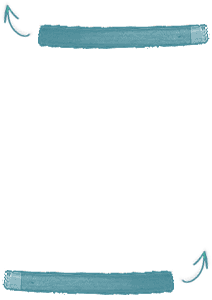
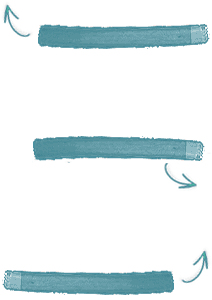
Made fancy-tip a shared class. Used the tip to put some focus on different configurator modes.

Changed region(s): [[0.1415, 0.45, 0.9623, 0.6], [0.8208, 0.57, 0.934, 0.63]]

diff --git a/src/ckeditor/samples/css/sample.css b/src/ckeditor/samples/css/sample.css
@@ -1,4 +1,4 @@
 /*!
  Copyright (c) 2003-2015, CKSource - Frederico Knabben. All rights reserved.
  For licensing, see LICENSE.html or http://cksource.com/ckeditor/license
[2 lines of base64/hex data omitted]

diff --git a/src/ckeditor/samples/toolbareditor/css/toolbarmodifier.css b/src/ckeditor/samples/toolbareditor/css/toolbarmodifier.css
@@ -1,4 +1,4 @@
 /*!
  Copyright (c) 2003-2015, CKSource - Frederico Knabben. All rights reserved.
  For licensing, see LICENSE.html or http://cksource.com/ckeditor/license
- */.cke_toolbar{pointer-events:none;-webkit-user-select:none;-moz-user-select:none;-ms-user-select:none;user-select:none;cursor:default}.some-toolbar-active .cke_toolbar{zoom:1;filter:alpha(opacity=50);-webkit-opacity:0.5;-moz-opacity:0.5;opacity:0.5}.cke_toolbar.active{position:relative;zoom:1;filter:alpha(opacity=100);-webkit-opacity:1;-moz-opacity:1;opacity:1}.cke_toolbar.active:after{content:'';display:block;position:absolute;top:0;right:6px;bottom:5px;left:0;-webkit-border-radius:5px;-webkit-background-clip:padding-box;-moz-border-radius:5px;-moz-background-clip:padding;border-radius:5px;background-clip:padding-box;-webkit-box-shadow:0px 0px 15px 3px #fff4b0;-moz-box-shadow:0px 0px 15px 3px #fff4b0;box-shadow:0px 0px 15px 3px #fff4b0}.cke_toolbar.active .cke_toolgroup{-webkit-box-shadow:none;-moz-box-shadow:none;box-shadow:none;border-color:#e3c300}.cke_toolbar.active .cke_combo,.cke_toolbar.active .cke_toolgroup{position:relative;z-index:2}.cke_toolbar.active .cke_combo_button{-webkit-box-shadow:none;-moz-box-shadow:none;box-shadow:none}.unselectable{-webkit-user-select:none;-moz-user-select:none;-ms-user-select:none;user-select:none}.toolbar{width:100%;padding:2.4em 0;overflow:hidden;border:1px solid transparent;text-align:center}.toolbar button.cke_button{cursor:pointer;display:inline-block;padding:4px 6px;outline:0;border:1px solid #a6a6a6}.toolbar button.hidden{display:none}.toolbar button.left{float:left}.toolbar button.right{float:right}.configContainer.hidden,.toolbarModifier.hidden{display:none}.toolbarModifier :focus,.toolbar button:focus,.configContainer>textarea:focus{outline:none}.toolbarModifier{padding:0;overflow:hidden;width:100%;position:relative;overflow-y:auto}.toolbarModifier ::-moz-focus-inner{border:0}.toolbarModifier .empty{display:none}.toolbarModifier.empty-visible .empty{display:table-row;zoom:1;filter:alpha(opacity=60);-webkit-opacity:0.6;-moz-opacity:0.6;opacity:0.6}.toolbarModifier>ul{padding:0;margin:0;border-top:1px solid #ccc;width:100%;display:table;border-collapse:collapse}.toolbarModifier>ul>li{display:table-row}.toolbarModifier>ul>li[data-type="group"],.toolbarModifier>ul>li[data-type="separator"]{border-bottom:1px solid #ccc}.toolbarModifier>ul>li[data-type="subgroup"]{border-top:1px solid #eee}.toolbarModifier>ul>li[data-type="subgroup"]:first-child{border-top:none}.toolbarModifier>ul>li[data-type="group"].active,.toolbarModifier>ul>li[data-type="group"]:hover,.toolbarModifier>ul>li[data-type="separator"].active,.toolbarModifier>ul>li[data-type="separator"]:hover{overflow:hidden;z-index:2}.toolbarModifier>ul>li[data-type="group"].active,.toolbarModifier>ul>li[data-type="separator"].active,.toolbarModifier>ul>li[data-type="group"].active:hover,.toolbarModifier>ul>li[data-type="separator"].active:hover{background:#f0fafb}.toolbarModifier>ul>li[data-type="group"]:hover,.toolbarModifier>ul>li[data-type="separator"]:hover{background:#fffbe3}.toolbarModifier>ul>li[data-type="separator"]:after{content:'';width:100%}.toolbarModifier>ul>li[data-type="separator"]>p{padding:3px 0}.toolbarModifier>ul>li>p,.toolbarModifier>ul>li>ul{display:table-cell;vertical-align:middle}.toolbarModifier>ul>li p{min-width:200px}.toolbarModifier>ul>li p span{white-space:nowrap}.toolbarModifier>ul>li p span button{margin-right:5px;cursor:pointer;background:#fff;-webkit-border-radius:5px;-webkit-background-clip:padding-box;-moz-border-radius:5px;-moz-background-clip:padding;border-radius:5px;background-clip:padding-box;border:1px solid #bbb}.toolbarModifier>ul>li p span button:not(.disabled):hover{color:#fff;background-color:#454545;border-color:transparent}.toolbarModifier>ul>li p span button.move.disabled{cursor:default;zoom:1;filter:alpha(opacity=20);-webkit-opacity:0.2;-moz-opacity:0.2;opacity:0.2}.toolbarModifier>ul>li ul{border-collapse:collapse;padding-left:0;width:100%}.toolbarModifier>ul>li ul li{display:table-row;list-style-type:none}.toolbarModifier>ul>li ul li[data-type="subgroup"]{border-top:1px solid #ddd}.toolbarModifier>ul>li ul li[data-type="subgroup"]:first-child{border-top:0}.toolbarModifier>ul>li ul li>p,.toolbarModifier>ul>li ul li>ul{display:table-cell;vertical-align:middle}.toolbarModifier>ul>li ul li p{padding:3px 0}.toolbarModifier>ul>li ul li ul li{padding:3px 0;display:inline-block;cursor:pointer}.toolbarModifier>ul>li ul li ul li+li{margin-left:5px}.toolbarModifier>ul>li ul li ul li .cke_combo_text{cursor:pointer;white-space:nowrap}.toolbarModifier>ul>li ul li ul li .cke_toolgroup,.toolbarModifier>ul>li ul li ul li .cke_combo_button{cursor:pointer;margin:0;vertical-align:middle;border:1px solid #ddd;font-size:11.41px;font-size:0.713rem;line-height:20.54px;line-height:1.28rem}.toolbarModifier>.codemirror-wrapper{overflow-y:auto}.toolbarModifier>div.hint{float:right;width:135px;overflow-y:auto;padding:0 20px;font-size:1.4em}.toolbarModifier>div.hint.hidden{width:0;padding:0}.toolbarModifier>div.hint>ul{padding-left:0;text-transform:uppercase;font-weight:bold;font-size:12px}.toolbarModifier>div.hint>ul>li>ul{padding-left:5px;text-transform:none;font-weight:normal;font-family:monospace;-webkit-user-select:auto;-moz-user-select:auto;-ms-user-select:auto;user-select:auto}.toolbarModifier>div.hint>h3{margin-top:0;font-size:13px}.toolbarModifier>div.hint .cke_toolgroup{padding:2px}.configContainer>textarea{font-size:13.01px;font-size:0.813rem;line-height:23.42px;line-height:1.46rem;-webkit-box-sizing:border-box;-moz-box-sizing:border-box;box-sizing:border-box;color:#575757;padding:10px;width:100%;min-height:450px;margin:0;resize:none;outline:none;-moz-tab-size:4;-o-tab-size:4;tab-size:4;white-space:pre;word-wrap:normal;overflow:auto;font-family:Consolas,Menlo,Monaco,Lucida Console,Liberation Mono,DejaVu Sans Mono,Bitstream Vera Sans Mono,Courier New,monospace,serif}#toolbarModifierWrapper{margin-bottom:1.2em}#toolbarModifierWrapper .invalid .CodeMirror{background:#fff8f8}.mode-switch{position:absolute;right:0;top:0;-webkit-border-radius:200px;-webkit-background-clip:padding-box;-moz-border-radius:200px;-moz-background-clip:padding;border-radius:200px;background-clip:padding-box;background:#f2fafb;border-bottom:4px solid rgba(0,0,0,0.25);padding:5px 7px 9px}.mode-switch .fancy-button{float:left}.mode-switch .fancy-button:first-child{border-top-right-radius:0;border-bottom-right-radius:0;border-right:1px solid #b42f28}.mode-switch .fancy-button:last-child{border-top-left-radius:0;border-bottom-left-radius:0}.mode-switch .fancy-button:not( .hidden )+.fancy-button{margin:0}
+ */.cke_toolbar{pointer-events:none;-webkit-user-select:none;-moz-user-select:none;-ms-user-select:none;user-select:none;cursor:default}.some-toolbar-active .cke_toolbar{zoom:1;filter:alpha(opacity=50);-webkit-opacity:0.5;-moz-opacity:0.5;opacity:0.5}.cke_toolbar.active{position:relative;zoom:1;filter:alpha(opacity=100);-webkit-opacity:1;-moz-opacity:1;opacity:1}.cke_toolbar.active:after{content:'';display:block;position:absolute;top:0;right:6px;bottom:5px;left:0;-webkit-border-radius:5px;-webkit-background-clip:padding-box;-moz-border-radius:5px;-moz-background-clip:padding;border-radius:5px;background-clip:padding-box;-webkit-box-shadow:0px 0px 15px 3px #fff4b0;-moz-box-shadow:0px 0px 15px 3px #fff4b0;box-shadow:0px 0px 15px 3px #fff4b0}.cke_toolbar.active .cke_toolgroup{-webkit-box-shadow:none;-moz-box-shadow:none;box-shadow:none;border-color:#e3c300}.cke_toolbar.active .cke_combo,.cke_toolbar.active .cke_toolgroup{position:relative;z-index:2}.cke_toolbar.active .cke_combo_button{-webkit-box-shadow:none;-moz-box-shadow:none;box-shadow:none}.unselectable{-webkit-user-select:none;-moz-user-select:none;-ms-user-select:none;user-select:none}.toolbar{width:100%;padding:2.4em 0;overflow:hidden;border:1px solid transparent;text-align:center}.toolbar button.cke_button{cursor:pointer;display:inline-block;padding:4px 6px;outline:0;border:1px solid #a6a6a6}.toolbar button.hidden{display:none}.toolbar button.left{float:left}.toolbar button.right{float:right}.configContainer.hidden,.toolbarModifier.hidden{display:none}.toolbarModifier :focus,.toolbar button:focus,.configContainer>textarea:focus{outline:none}.toolbarModifier{padding:0;overflow:hidden;width:100%;position:relative;overflow-y:auto}.toolbarModifier ::-moz-focus-inner{border:0}.toolbarModifier .empty{display:none}.toolbarModifier.empty-visible .empty{display:table-row;zoom:1;filter:alpha(opacity=60);-webkit-opacity:0.6;-moz-opacity:0.6;opacity:0.6}.toolbarModifier>ul{padding:0;margin:0;border-top:1px solid #ccc;width:100%;display:table;border-collapse:collapse}.toolbarModifier>ul>li{display:table-row}.toolbarModifier>ul>li[data-type="group"],.toolbarModifier>ul>li[data-type="separator"]{border-bottom:1px solid #ccc}.toolbarModifier>ul>li[data-type="subgroup"]{border-top:1px solid #eee}.toolbarModifier>ul>li[data-type="subgroup"]:first-child{border-top:none}.toolbarModifier>ul>li[data-type="group"].active,.toolbarModifier>ul>li[data-type="group"]:hover,.toolbarModifier>ul>li[data-type="separator"].active,.toolbarModifier>ul>li[data-type="separator"]:hover{overflow:hidden;z-index:2}.toolbarModifier>ul>li[data-type="group"].active,.toolbarModifier>ul>li[data-type="separator"].active,.toolbarModifier>ul>li[data-type="group"].active:hover,.toolbarModifier>ul>li[data-type="separator"].active:hover{background:#f0fafb}.toolbarModifier>ul>li[data-type="group"]:hover,.toolbarModifier>ul>li[data-type="separator"]:hover{background:#fffbe3}.toolbarModifier>ul>li[data-type="separator"]:after{content:'';width:100%}.toolbarModifier>ul>li[data-type="separator"]>p{padding:3px 5px}.toolbarModifier>ul>li>p,.toolbarModifier>ul>li>ul{display:table-cell;vertical-align:middle}.toolbarModifier>ul>li p{padding-left:5px;min-width:200px}.toolbarModifier>ul>li p span{white-space:nowrap}.toolbarModifier>ul>li p span button{margin-right:5px;cursor:pointer;background:#fff;-webkit-border-radius:5px;-webkit-background-clip:padding-box;-moz-border-radius:5px;-moz-background-clip:padding;border-radius:5px;background-clip:padding-box;border:1px solid #bbb}.toolbarModifier>ul>li p span button:not(.disabled):hover{color:#fff;background-color:#454545;border-color:transparent}.toolbarModifier>ul>li p span button.move.disabled{cursor:default;zoom:1;filter:alpha(opacity=20);-webkit-opacity:0.2;-moz-opacity:0.2;opacity:0.2}.toolbarModifier>ul>li ul{border-collapse:collapse;padding-left:0;width:100%}.toolbarModifier>ul>li ul li{display:table-row;list-style-type:none}.toolbarModifier>ul>li ul li[data-type="subgroup"]{border-top:1px solid #ddd}.toolbarModifier>ul>li ul li[data-type="subgroup"]:first-child{border-top:0}.toolbarModifier>ul>li ul li>p,.toolbarModifier>ul>li ul li>ul{display:table-cell;vertical-align:middle}.toolbarModifier>ul>li ul li p{padding:3px 0}.toolbarModifier>ul>li ul li ul li{padding:3px 0;display:inline-block;cursor:pointer}.toolbarModifier>ul>li ul li ul li+li{margin-left:5px}.toolbarModifier>ul>li ul li ul li .cke_combo_text{cursor:pointer;white-space:nowrap}.toolbarModifier>ul>li ul li ul li .cke_toolgroup,.toolbarModifier>ul>li ul li ul li .cke_combo_button{cursor:pointer;margin:0;vertical-align:middle;border:1px solid #ddd;font-size:11.41px;font-size:0.713rem;line-height:20.54px;line-height:1.28rem}.toolbarModifier>.codemirror-wrapper{overflow-y:auto}.toolbarModifier>div.hint{float:right;width:135px;overflow-y:auto;padding:0 20px;font-size:1.4em}.toolbarModifier>div.hint.hidden{width:0;padding:0}.toolbarModifier>div.hint>ul{padding-left:0;text-transform:uppercase;font-weight:bold;font-size:12px}.toolbarModifier>div.hint>ul>li>ul{padding-left:5px;text-transform:none;font-weight:normal;font-family:monospace;-webkit-user-select:auto;-moz-user-select:auto;-ms-user-select:auto;user-select:auto}.toolbarModifier>div.hint>h3{margin-top:0;font-size:13px}.toolbarModifier>div.hint .cke_toolgroup{padding:2px}.configContainer>textarea{font-size:13.01px;font-size:0.813rem;line-height:23.42px;line-height:1.46rem;-webkit-box-sizing:border-box;-moz-box-sizing:border-box;box-sizing:border-box;color:#575757;padding:10px;width:100%;min-height:450px;margin:0;resize:none;outline:none;-moz-tab-size:4;-o-tab-size:4;tab-size:4;white-space:pre;word-wrap:normal;overflow:auto;font-family:Consolas,Menlo,Monaco,Lucida Console,Liberation Mono,DejaVu Sans Mono,Bitstream Vera Sans Mono,Courier New,monospace,serif}#toolbarModifierWrapper{margin-bottom:1.2em}#toolbarModifierWrapper .invalid .CodeMirror{background:#fff8f8}.mode-switch{position:absolute;right:0;top:0;-webkit-border-radius:200px;-webkit-background-clip:padding-box;-moz-border-radius:200px;-moz-background-clip:padding;border-radius:200px;background-clip:padding-box;background:#f2fafb;border-bottom:4px solid rgba(0,0,0,0.25);padding:5px 7px 9px}.mode-switch .fancy-button{float:left}.mode-switch .fancy-button:first-child{border-top-right-radius:0;border-bottom-right-radius:0;border-right:1px solid #b42f28}.mode-switch .fancy-button:first-child+.fancy-button{border-top-left-radius:0;border-bottom-left-radius:0}.mode-switch .fancy-button:not( .hidden )+.fancy-button{margin:0}.mode-switch .fancy-tip{right:155px;top:-30px;background-position:left -130px;padding-left:39px;padding-top:7px}

diff --git a/src/ckeditor/samples/toolbareditor/less/toolbarmodifier.less b/src/ckeditor/samples/toolbareditor/less/toolbarmodifier.less
@@ -16,6 +16,7 @@ It is forbidden to copy and distribute this file in its original or modified for
 @modifier-toolbar-border-color: #ccc;
 @modifier-toolbar-group-border-color: #ddd;
 @modifier-toolbar-group-vpadding: 3px;
+@modifier-toolbar-hgap: 5px;
 
 .cke_toolbar {
 	pointer-events: none;
@@ -184,7 +185,7 @@ It is forbidden to copy and distribute this file in its original or modified for
 				}
 
 				& > p {
-					padding: @modifier-toolbar-group-vpadding 0;
+					padding: @modifier-toolbar-group-vpadding @modifier-toolbar-hgap;					
 				}
 			}
 
@@ -195,6 +196,7 @@ It is forbidden to copy and distribute this file in its original or modified for
 
 			// Note: this also controls the list of toolbar groups.
 			p {
+				padding-left: @modifier-toolbar-hgap;
 				min-width: 200px;
 
 				span {
@@ -361,7 +363,7 @@ It is forbidden to copy and distribute this file in its original or modified for
 	.border-radius( 200px );
 	background: lighten( @sample-header-background, 10% );
 	border-bottom: 4px solid rgba( 0,0,0,.25 );
-	padding: 5px 7px 9px;
+	padding: 5px 7px 9px;	
 
 	.fancy-button {
 		float: left;
@@ -370,15 +372,25 @@ It is forbidden to copy and distribute this file in its original or modified for
 			border-top-right-radius: 0;
 			border-bottom-right-radius: 0;
 			border-right: 1px solid @sample-fancy-shadow-1-color;
-		}
 
-		&:last-child {
+			&+.fancy-button {
 			border-top-left-radius: 0;
 			border-bottom-left-radius: 0;
+			}
 		}
+
+		
 
 		&:not( .hidden ) + .fancy-button {
 			margin: 0;
 		}
+	}
+
+	.fancy-tip {
+		right: 155px;
+		top: -30px;
+		background-position: left -130px;
+		padding-left: 39px;
+		padding-top: 7px;
 	}
 }

diff --git a/src/ckeditor/samples/less/sample.less b/src/ckeditor/samples/less/sample.less
@@ -133,6 +133,21 @@ header {
 	}
 }
 
+.fancy-tip {
+	display: block;
+	position: absolute;
+
+	width: 212px;
+	height: 60px;	
+	background: url( ../img/navigation-tip.png );
+	background-repeat: no-repeat;
+	.box-sizing( border-box );
+
+	color: #fff;
+	font-family: @sample-font-indie;
+	.font-size( 0.95 );	
+}
+
 .main-navigation {
 	.font-size( 1.063 );
 	position: absolute;
@@ -150,32 +165,22 @@ header {
 		}
 
 		.main-navigation-tip {
-			display: block;
-			position: absolute;
-			top: 30px;
-
-			width: 212px;
-			height: 54px;
-			opacity: .5;
-			padding-top: 25px;
-			background: url( ../img/navigation-tip.png );
-			background-repeat: no-repeat;
-			.box-sizing( border-box );
-
-			color: #fff;
-			font-family: @sample-font-indie;
-			.font-size( 0.95 );
-
 			// Standard setup
-			background-position: left bottom;
+			top: 30px;
 			right: 90px;
+			opacity: .5;
+
+			background-position: left bottom;
 			padding-left: 23px;
+			padding-top: 31px;
 
 			// Wide setup. It works in IE9+ only though.
 			@media screen and (min-width: 1210px) {
+				right: -110px;	
+
+				padding-top: 26px;
 				background-position: left top;
-				right: -110px;
-				padding-left: 53px;
+				padding-left: 53px;					
 			}
 		}
 

diff --git a/src/ckeditor/samples/index.html b/src/ckeditor/samples/index.html
@@ -21,7 +21,7 @@ For licensing, see LICENSE.md or http://ckeditor.com/license
 		<nav class="navigation main-navigation">
 			<ul>
 				<li><a href="index.html" class="active">Demo</a></li>
-				<li><a href="toolbareditor/index.html">Toolbar configurator <span class="main-navigation-tip">Edit your toolbar now!</span></a></li>
+				<li><a href="toolbareditor/index.html">Toolbar configurator <span class="fancy-tip main-navigation-tip">Edit your toolbar now!</span></a></li>
 			</ul>
 		</nav>
 	</div>

diff --git a/src/ckeditor/samples/toolbareditor/index.html b/src/ckeditor/samples/toolbareditor/index.html
@@ -51,6 +51,7 @@ For licensing, see LICENSE.md or http://ckeditor.com/license
 			<span class="mode-switch">
 				<span id="mode-switch-basic" class="fancy-button fancy-button-active">Basic</span>
 				<span id="mode-switch-advanced" class="fancy-button">Advanced</span>
+				<span class="fancy-tip">Select configurator mode</span>
 			</span>
 			<div id="editor"></div>
 		</div>
